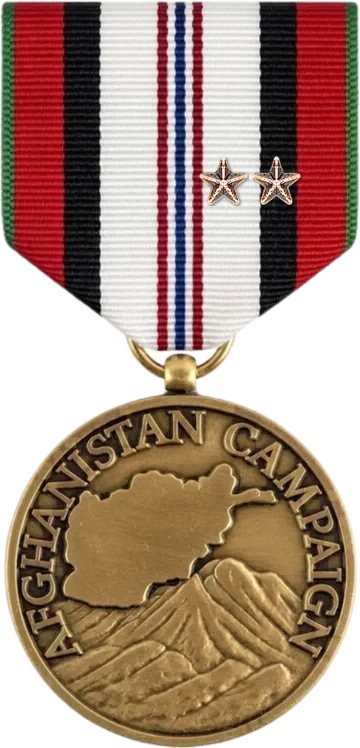
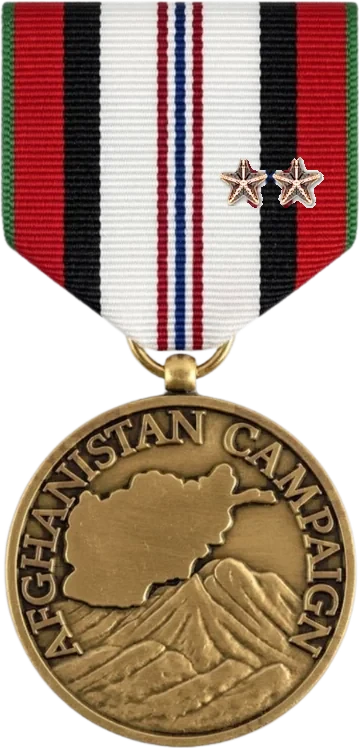
Decorations mount at the regulation 50% overlap (Sergio, Oct 19 2026): step half the 1 3/8 in button; drape devices of overlapped medals centred on the visible right half (art. 5316.2.e), moved as-is from the -front photos: ARCOM oak leaf (overlapped again, back on -mount), NGCM star, ACM/ICM stars;

Changed region(s): [[0.55, 0.2152, 0.9167, 0.2767]]

diff --git a/src/styles.css b/src/styles.css
@@ -1655,10 +1655,10 @@ object.cx-art { color-scheme: light; }
 .medal-hero-photo .medal-set { display: block; width: min(100%, 26rem); height: auto; margin: 0 auto; }
 .decor-medal-grid--photo { gap: 0; }
 .decor-medal-grid--photo .decor-medal-row { position: relative; }
-/* Overlap matched to Sergio's mount (Oct 17 2026): medal centres 0.64 of a pendant width apart (pendants are 0.956 of
-   the 1 3/8 in button, so the step is 0.612 of it); row heights and crops come from mountLayout() in decorations-view. */
+/* Regulation overlap (Sergio, Oct 19 2026; NAVPERS 15665 art. 5316): each medal overlaps the next by 50%, so the step
+   is half the 1 3/8 in button (was 0.612 of it, matched to his own mount); row heights and crops come from mountLayout(). */
 .decor-medal-grid--photo .decor-medal-row { align-items: stretch; }
-.decor-medal-grid--photo .decor-medal-btn + .decor-medal-btn { margin-left: calc(var(--mi, 1rem) * -0.5335); }
+.decor-medal-grid--photo .decor-medal-btn + .decor-medal-btn { margin-left: calc(var(--mi, 1rem) * -0.6875); }
 .decor-medal-grid--photo .decor-medal-btn { display: flex; align-items: flex-start; }
 .decor-medal-grid--photo .medal-art { display: flex; flex-direction: column; justify-content: flex-start; height: auto; }
 .decor-medal-grid--photo .medal-raster { filter: drop-shadow(0 1px 1.5px rgba(0,0,0,0.55)); }

diff --git a/src/components/shadowbox/decorations-view.tsx b/src/components/shadowbox/decorations-view.tsx
@@ -64,9 +64,12 @@ const HANG: Record<string, [number, number]> = {
   ngcm: [343, 762], pistol: [355, 753], rifle: [326, 755],
 };
 /** Medals whose drape devices sit on the visible part of the ribbon when overlapped (art. 5316.2.e): <id>-mount.webp.
- *  ARCOM is not in the set (Sergio, Oct 19 2026): its 7/16 in bronze oak leaf stays centred on the suspension ribbon
- *  (the -front photo, centred like the inboard JSCM's); the ribbon centre is in the visible part at this overlap. */
-const MOUNT_VARIANT = new Set(["nam", "ngcm", "acm", "icm"]);
+ *  At the regulation 50% overlap (Sergio, Oct 19 2026) the inboard neighbour covers the left half of each outboard drape,
+ *  so the devices are centred on the right half (x 270 of 360 px), moved as-is from the -front photo. ARCOM is back in
+ *  the set: its oak leaf is now overlapped. NAM: its 4 gold 5/16 in stars (341 px wide) fit neither side by side in the
+ *  visible 180 px nor stacked in the visible drape height (about 276 px for 4 x 79 px), so nam-mount keeps them in a
+ *  row pushed to the outboard edge (pending Sergio's call). */
+const MOUNT_VARIANT = new Set(["arcom", "nam", "ngcm", "acm", "icm"]);
 const PHOTO_W = 360;
 /** Reference: rows hang 0.85 of a pendant height apart (mean pendant body 351 px). */
 const ROW_STEP = 299;
